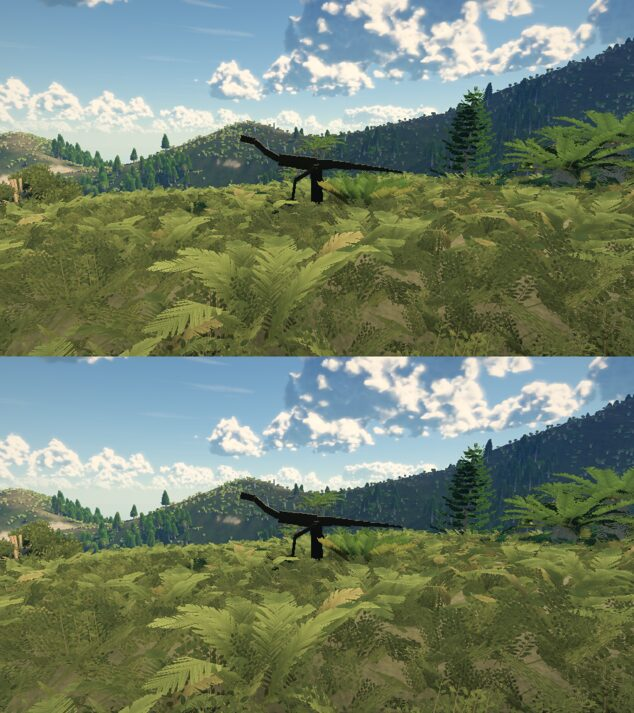
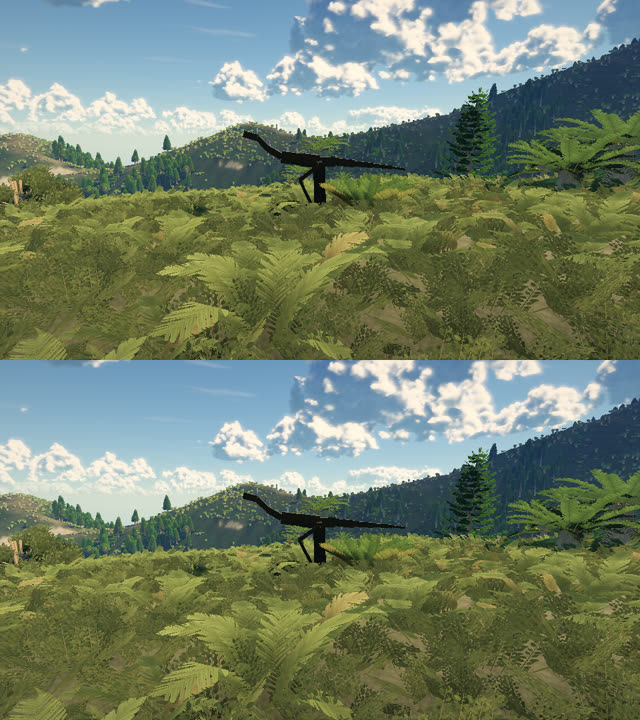
cretaceous: re-render the procedural-layer stills after the 5.0 merge

diff --git a/ocean/cretaceous/reports/cloud/dino-procedural-anim/README.md b/ocean/cretaceous/reports/cloud/dino-procedural-anim/README.md
@@ -8,7 +8,7 @@ limbs, procedural clips) standing in for the raptor and the stegosaur. They
 show that the layers run in the real render path; they are not a review of
 how the real models look.
 
-Each image: top = `CRET_ANIM=none` (every procedural layer off, as on 5.0
+Re-rendered after merging 5.0 (foot IK in render/dino_ik.c). Each image: top = `CRET_ANIM=none` (every procedural layer off, as on 5.0
 except that the foot IK is off too), bottom = `CRET_ANIM=all` (default).
 
 | File | Shot |
